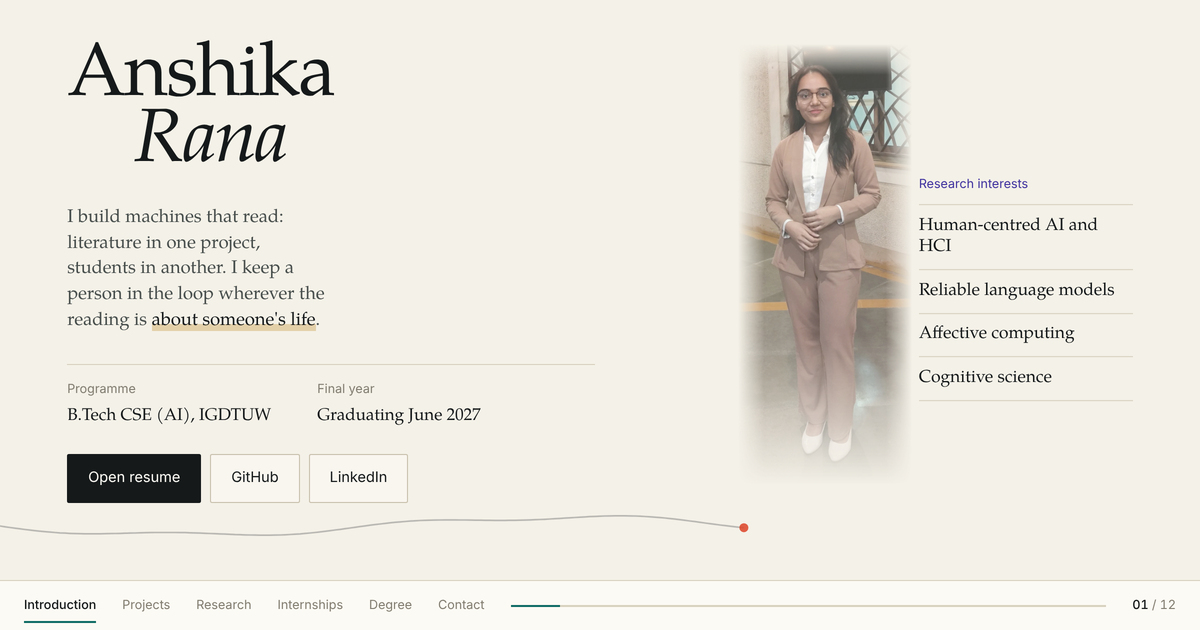
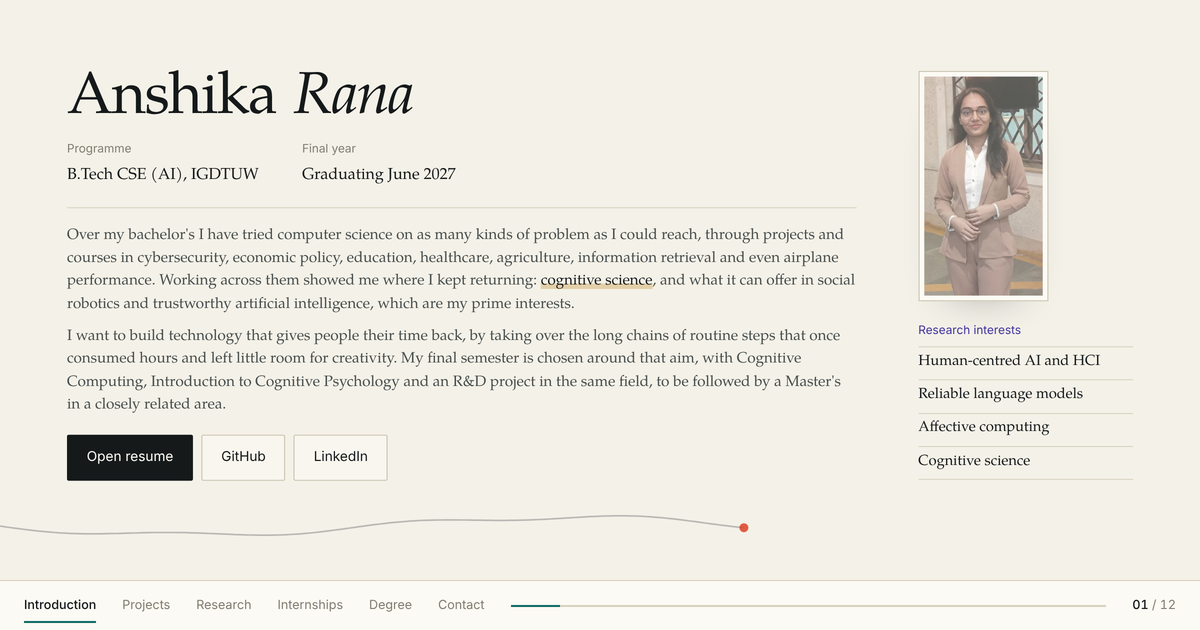
Changes to the Introduction section

diff --git a/index.html b/index.html
@@ -44,17 +44,16 @@
     -webkit-mask-image:linear-gradient(90deg,transparent,#000 22%,#000 78%,transparent);
     mask-image:linear-gradient(90deg,transparent,#000 22%,#000 78%,transparent)}
   .plate img{display:block;width:100%;height:auto}
-  /* the portrait sits in the gap beside the name and the programme block,
-     clear of the signal line that runs along the foot of the panel */
-  .portrait{position:absolute;right:24%;top:7%;
-    height:min(70%,640px);width:auto;max-width:30vw;opacity:.88;margin:0;pointer-events:none;
-    -webkit-mask-image:linear-gradient(180deg,transparent 0,#000 7%,#000 66%,transparent 100%);
-    mask-image:linear-gradient(180deg,transparent 0,#000 7%,#000 66%,transparent 100%)}
-  /* the figure keeps its edges; the wall behind it dissolves into the paper */
-  .portrait img{display:block;height:100%;width:auto;
-    -webkit-mask-image:linear-gradient(90deg,transparent 0,#000 15%,#000 85%,transparent 100%);
-    mask-image:linear-gradient(90deg,transparent 0,#000 15%,#000 85%,transparent 100%)}
-  html.stacked .portrait{display:none}
+  /* introduction: the story takes the width, the portrait and interests sit in a side column */
+  .openwrap{display:grid;grid-template-columns:minmax(0,1fr) auto;gap:clamp(44px,5.5vw,104px);
+    align-items:center;width:100%;max-width:1640px;margin:0 auto}
+  .side{width:clamp(226px,19vw,300px)}
+  .portrait{margin:0;display:inline-block;padding:5px;background:var(--card);border:1px solid #C9C1AD;
+    box-shadow:0 22px 44px -34px rgba(21,25,26,.45);line-height:0}
+  .portrait img{display:block;height:clamp(200px,37vh,400px);width:auto;max-width:100%;opacity:.8}
+  html.stacked .openwrap{grid-template-columns:1fr;gap:34px}
+  html.stacked .side{width:auto}
+  html.stacked .portrait img{height:300px}
   .panel{--padx:clamp(56px,5.6vw,116px);position:relative;z-index:1;flex:0 0 auto;height:100%;
     padding:84px var(--padx) 150px;display:flex;flex-direction:column;justify-content:center}
 
@@ -82,10 +81,20 @@
   h1{font-family:var(--display);font-weight:400;font-size:clamp(62px,12vh,104px);line-height:.86;
     letter-spacing:-.025em;margin:0 0 4px}
   h1 em{font-style:italic;display:block;margin-left:.88em}
+  /* the introduction sets the name on one line to leave room for the story */
+  .p-open h1{font-size:clamp(54px,10vh,96px);line-height:1.02;margin:0}
+  .p-open h1 em{display:inline;margin-left:.06em}
+  .p-open .meta{border-top:0;padding-top:0;margin:clamp(8px,1.6vh,16px) 0 0;max-width:none}
+  .story{margin:clamp(16px,3.2vh,34px) 0 0;padding-top:clamp(14px,2.8vh,28px);border-top:1px solid var(--line)}
+  .story p{font-family:var(--display);font-size:clamp(16px,2.4vh,20.5px);line-height:1.52;
+    color:var(--ink-2);margin:0 0 clamp(8px,1.6vh,14px)}
+  .p-open .links{margin-top:clamp(16px,3vh,30px)}
+  .story b{font-weight:400;color:var(--ink);background:linear-gradient(transparent 62%,rgba(var(--ochre-rgb),.3) 62%)}
+    html.stacked .story p{font-size:17px}
   .claim{font-family:var(--display);font-size:clamp(18px,2.9vh,25px);line-height:1.42;max-width:29ch;
     margin:clamp(18px,4vh,36px) 0 0;color:var(--ink-2)}
   .claim b{font-weight:400;color:var(--ink);background:linear-gradient(transparent 62%,rgba(var(--ochre-rgb),.3) 62%)}
-  .meta{display:flex;gap:46px;max-width:min(600px,44vw);margin:clamp(20px,4.4vh,40px) 0 clamp(18px,3.7vh,34px);
+  .meta{display:flex;gap:46px;max-width:min(660px,44vw);margin:clamp(14px,3vh,32px) 0 clamp(16px,3vh,30px);
     padding-top:clamp(12px,2.4vh,22px);border-top:1px solid var(--line)}
   .meta div span{display:block;font-size:12.5px;color:var(--ink-3);margin-bottom:3px}
   .meta div b{font-family:var(--display);font-weight:400;font-size:17px;color:var(--ink)}
@@ -97,15 +106,13 @@
   .btn:hover{background:var(--teal);border-color:var(--teal);color:#fff;transform:translateY(-1px)}
   a:focus-visible,button:focus-visible{outline:2px solid var(--teal);outline-offset:3px}
 
-  /* research interests: the column to the right of the portrait */
-  .interests{position:absolute;right:var(--padx);top:50%;transform:translateY(-62%);
-    width:clamp(214px,17.5vw,290px);margin:0}
-  .interests span{display:block;font-size:12.5px;color:var(--indigo);margin-bottom:10px}
+  /* research interests, under the portrait */
+  .interests{margin:clamp(12px,2.4vh,24px) 0 0}
+  .interests span{display:block;font-size:12.5px;color:var(--indigo);margin-bottom:clamp(6px,1.1vh,10px)}
   .interests ul{margin:0;padding:0;list-style:none}
-  .interests li{font-family:var(--display);font-size:clamp(17px,2.75vh,22px);line-height:1.22;
-    color:var(--ink);padding:clamp(9px,1.7vh,14px) 0;border-top:1px solid var(--line)}
+  .interests li{font-family:var(--display);font-size:clamp(15.5px,2.4vh,20px);line-height:1.2;
+    color:var(--ink);padding:clamp(6px,1.25vh,12px) 0;border-top:1px solid var(--line)}
   .interests li:last-child{border-bottom:1px solid var(--line)}
-  html.stacked .interests{position:static;transform:none;width:auto;margin:30px 0 0}
   .hint{position:absolute;left:70px;bottom:30px;font-size:13px;color:var(--ink-3);
     display:flex;align-items:center;gap:11px}
   .hint i{display:block;width:54px;height:1px;background:var(--teal);position:relative;font-style:normal}
@@ -325,6 +332,7 @@
     line-height:1.55;color:var(--ink-2);max-width:70ch;border-top:1px solid var(--line)}
   .u i,.l i{font-style:italic;font-family:var(--display);font-size:14px;color:var(--ink-3);padding-top:2px}
   .l i{color:var(--ochre)}
+  .pjt{font-family:var(--display);font-weight:400;font-size:25px;line-height:1.15;margin:0 0 12px}
   .plainnote{font-size:14.5px;line-height:1.62;color:var(--ink-2);margin:18px 0 0;
     padding:13px 16px;background:rgba(14,107,99,.05);border-left:2px solid var(--teal)}
   ul.team{margin:0;padding:0;list-style:none;display:flex;flex-wrap:wrap;gap:8px 26px}
@@ -405,26 +413,35 @@
   </div>
 
   <section class="panel p-open" id="s0">
-    <figure class="portrait"><img src="assets/portrait.webp" alt=""></figure>
-    <h1>Anshika<em>Rana</em></h1>
-    <p class="claim">I build machines that read: literature in one project, students in another. I keep a person in the loop wherever the reading is <b>about someone's life</b>.</p>
-    <div class="meta">
-      <div><span>Programme</span><b>B.Tech CSE (AI), IGDTUW</b></div>
-      <div><span>Final year</span><b>Graduating June 2027</b></div>
-    </div>
-    <div class="links">
-      <a class="btn" href="resume.pdf" target="_blank" rel="noopener">Open resume</a>
-      <a class="btn ghost" href="https://github.com/AnshikaRana" target="_blank" rel="noopener">GitHub</a>
-      <a class="btn ghost" href="https://www.linkedin.com/in/anshika-rana-02a4b6289/" target="_blank" rel="noopener">LinkedIn</a>
-    </div>
-    <div class="interests">
-      <span>Research interests</span>
-      <ul>
-        <li>Human-centred AI and HCI</li>
-        <li>Reliable language models</li>
-        <li>Affective computing</li>
-        <li>Cognitive science</li>
-      </ul>
+    <div class="openwrap">
+      <div class="opentext">
+        <h1>Anshika <em>Rana</em></h1>
+        <div class="meta">
+          <div><span>Programme</span><b>B.Tech CSE (AI), IGDTUW</b></div>
+          <div><span>Final year</span><b>Graduating June 2027</b></div>
+        </div>
+        <div class="story">
+          <p>Over my bachelor's I have tried computer science on as many kinds of problem as I could reach, through projects and courses in cybersecurity, economic policy, education, healthcare, agriculture, information retrieval and even airplane performance. Working across them showed me where I kept returning: <b>cognitive science</b>, and what it can offer in social robotics and trustworthy artificial intelligence, which are my prime interests.</p>
+          <p>I want to build technology that gives people their time back, by taking over the long chains of routine steps that once consumed hours and left little room for creativity. My final semester is chosen around that aim, with Cognitive Computing, Introduction to Cognitive Psychology and an R&amp;D project in the same field, to be followed by a Master's in a closely related area.</p>
+        </div>
+        <div class="links">
+          <a class="btn" href="resume.pdf" target="_blank" rel="noopener">Open resume</a>
+          <a class="btn ghost" href="https://github.com/AnshikaRana" target="_blank" rel="noopener">GitHub</a>
+          <a class="btn ghost" href="https://www.linkedin.com/in/anshika-rana-02a4b6289/" target="_blank" rel="noopener">LinkedIn</a>
+        </div>
+      </div>
+      <aside class="side">
+        <figure class="portrait"><img src="assets/portrait.webp" alt="Anshika Rana"></figure>
+        <div class="interests">
+          <span>Research interests</span>
+          <ul>
+            <li>Human-centred AI and HCI</li>
+            <li>Reliable language models</li>
+            <li>Affective computing</li>
+            <li>Cognitive science</li>
+          </ul>
+        </div>
+      </aside>
     </div>
   </section>
 

diff --git a/data.js b/data.js
@@ -181,7 +181,13 @@ const INTERNSHIPS = {
       "The work was built on OpenCV: real-time object detection, face anonymisation, and image segmentation.",
       "Face anonymisation is the piece worth keeping. Detecting a face and then deliberately destroying the information that identifies it is the same decision as the rest of my work, taken in the other direction: a system that can recognise someone is a system that can be told not to."
     ],
-    figs:[["6 wks","2 June to 11 July 2025"],["3","areas of work"],["OpenCV","the whole toolkit"]],
+    figs:[["6 wks","2 June to 11 July 2025"],["3","areas of work"],["OpenCV","and Keras for the project"]],
+    project:{title:"Wardrobe Assistant", body:[
+      "A notebook that looks at photographs of your clothes, works out what each item is, and suggests what the wardrobe is missing.",
+      "The classifier is a three-block convolutional network trained from scratch on the Re-PolyVore dataset: 4,950 images across 11 categories, from pants and tops to eyewear and bags, resized to 128 pixels and augmented with rotation, shifts, zoom and flips. After 30 epochs it reaches 74.6 percent accuracy on a held-out test set of 743 images.",
+      "Around it sit three simpler steps: a dominant-colour reading for each photograph, a rule table for style and pairing, and a list of suggested additions for the categories the wardrobe lacks.",
+      "What I learned: the classifier was the dependable part. The colour step averages every pixel, background included, so my own photographs all came out grey, and the pairing rules were written for labels the dataset does not use. Both taught me to test a pipeline on real inputs and not to stop at its accuracy figure."
+    ]},
     certs:[["assets/intern-2025.webp","Certificate of completion, Computer Vision and Deep Learning, six week summer internship, Anveshan Foundation, IGDTUW"]],
     links:[]
   },
@@ -195,6 +201,12 @@ const INTERNSHIPS = {
       "Everything in the Projects chapter rests on this one, which is the honest reason it is here."
     ],
     figs:[["8 wks","3 June to 29 July 2024"],["1st","of three summers"],["Python","and the classical stack"]],
+    project:{title:"Privacy-Enhanced Movie Recommendation System", body:[
+      "A content-based recommender over 4,803 films. You type a title, and it returns the films most like it.",
+      "Each film is described by its genres, keywords, tagline, cast and director. Those are turned into TF-IDF vectors and every film is compared with every other by cosine similarity. A misspelled title is matched to the closest real one before the search runs.",
+      "The privacy part is a first step. I set up a differentially private optimiser from TensorFlow Privacy, with gradient clipping and Gaussian noise, as the route to a recommender that learns from people's histories without memorising any one of them. This version does not yet train with it.",
+      "What I learned: how text features become vectors, how similarity search behaves across a few thousand items, and what differential privacy asks of a training loop before accuracy is even discussed."
+    ]},
     certs:[["assets/intern-2024.webp","Certificate of completion, Python and Machine Learning, eight week summer internship, Centre of Excellence in Artificial Intelligence, IGDTUW"]],
     links:[]
   }
@@ -378,7 +390,7 @@ const COURSES = {
     ["Unit III","Deep Neural Network: Deep Learning, Deep Neural Networks: Difficulty of training deep neural networks, Activation Function, Hyper parameters vs Parameters, Greedy layer wise training, Recurrent Neural Networks: Backpropagation through time, Long Short Term Memory, Gated Recurrent Units, Bidirectional LSTMs, Bidirectional RNNs, Applications in Natural Language Processing."],
     ["Unit IV","Applications: Convolutional Neural Networks. Filters, Pooling. Image Classification. Well known case studies: LeNet, AlexNet, VGG-16, ResNet, InceptionNet. Transfer Learning. Weight Initialization, Batch Normalization, Regularization. Applications in Vision, Speech, and Audio-Video."]],
     [], ""),
-  "HMC 301": C("HMC-301","Professional Ethics",3,"B+",[
+  "HMC 301": C("HMC-301","Professional Ethics and Human Values",3,"B+",[
     ["Unit I","Human Values Morals, Values and Ethics, Integrity, Work Ethic, Respect for Others, Living Peacefully, Caring, Sharing, Honesty, Valuing Time, Co-operation, Commitment, Empathy, Self-Confidence, Character, Spirituality. Indian values (on the conceptual framework of Vedas): Purusharth, Niskama karma, Religion and Human Values, Towards a World Religion, Ethical Living and Harmony in Life."],
     ["Unit II","Profession and Professionalism, Ethical Theories: Kohlberg’s Theory, Gilligan’s Theory, Feminist Consequentialism, Moral Dilemmas, Types of Enquiries, Uses of Ethical Theories, Engineering Profession, Engineering Professionals- Training, Skill Set, Life Skills, Engineering Ethics: Making Senses and Issues, Ethical Obligations of Engineers, Ethical Codes for Engineers."],
     ["Unit III","Engineering as a Social Experimentation, Safety Responsibility and Rights: Engineering as experimentation, Engineers as responsible Experimenters, Concept of Safety and Risk, Engineer’s Responsibility for Safety, Risk – Benefit Analysis, Case Studies: The challenger case study, The Three Mile Island, Fukushima Nuclear Disaster, Bhopal Gas Tragedy. Disaster Management, Professional Rights, Employee Rights, Intellectual Property Rights (IPRs), Human Rights and Human Responsibilities. Major Ethical Issues."],

diff --git a/app.js b/app.js
@@ -4,7 +4,7 @@ const SEMS=[
  ["Semester 2","6.45","Completed",[["IT Workshop","A","BAI 108",1],["Database Management","B","BAI 106",0],["Environmental Science","B","BAS 106",0],["Intro to Data Science","","BAI 104",0],["OOP using Java","","BAI 102",0],["Probability & Statistics","","BAS 108",0]]],
  ["Semester 3","6.35","Completed",[["Artificial Intelligence","B+","BAI 201",1],["Internship","B+","BAI 253",0],["Discrete Structures","B","BCS 203",0],["Data Structures","","BCS 201",0],["Software Engineering","","BIT 203",0],["Numerical Methods","","BAS 203",0],["Introduction to Airplane Performance (NPTEL)","","GEC 201",0]]],
  ["Semester 4","7.27","Completed",[["Optimization Techniques","A","BAI 204",1],["Operating Systems","B+","BIT 202",0],["Disaster Management","B+","HMC 202",0],["Computer Networks","B","BAI 202",0],["Algorithms","","BCS 204",0],["Operations Management","","BMA 210",0]]],
- ["Semester 5","8.27","Completed",[["Machine Learning","A","BAI 301",1],["Theory of Computation","A","BCS 303",0],["Startup Development","A","GEC 301",0],["Cyber Security","B+","BAI 303",0],["Deep Learning I","B","BAI 305",0],["Professional Ethics","B+","HMC 301",0],["Internship","B+","BAI 353",0]]],
+ ["Semester 5","8.27","Completed",[["Machine Learning","A","BAI 301",1],["Theory of Computation","A","BCS 303",0],["Startup Development","A","GEC 301",0],["Cyber Security","B+","BAI 303",0],["Deep Learning I","B","BAI 305",0],["Professional Ethics and Human Values","B+","HMC 301",0],["Internship","B+","BAI 353",0]]],
  ["Semester 6","7.91","Completed",[["Cloud Computing","A","BAI 308",1],["Marketing Management","A","HMC 304",0],["Natural Language Processing","B+","BAI 302",0],["Deep Learning II","B+","BAI 304",0],["Digital Image Processing","B","BAI 306",0],["Data Warehousing and Business Intelligence","B","BAI 322",0]]],
  ["Semester 7","·","In progress",[["Computer Vision","","BAI 403",1],["Conversational AI","","BAI 409",1],["Multimodal Data Analytics","","BAI 417",0],["Recent Trends in AI","","BAI 415",0],["Big Data Analytics","","BIT 407",0],["Minor Project","","BAI 451",0],["Internship","","BAI 453",0]]],
  ["Semester 8","·","Ahead",[["Cognitive Computing","","BAI 414",1],["Introduction to Cognitive Psychology by IIT Guwahati (NPTEL)","","GEC 402",1],["Social Media Analytics","","BAI 404",0],["R&D Project","","BAI 452",0],["Creativity, Innovation and Entrepreneurship","","HMC 402",0]]]
@@ -114,6 +114,10 @@ function openItem(kind,key){
     ? '<h5>From the demo</h5><div class="certs">'+
       o.shots.map(([src,cap])=>`<figure class="certfig"><img src="${src}" alt="${esc(cap)}" loading="lazy"><figcaption>${esc(cap)}</figcaption></figure>`).join('')+
       '</div>' : '';
+  // the project built during an internship
+  const proj = o.project
+    ? `<h5>Project from this internship</h5><h4 class="pjt">${esc(o.project.title)}</h4>`+
+      o.project.body.map(p=>`<p class="para">${esc(p)}</p>`).join('') : '';
   const cert = o.certs&&o.certs.length
     ? '<h5>'+(o.certs.length>1?'Certificate and award':'Certificate')+'</h5><div class="certs">'+
       o.certs.map(([src,cap])=>`<figure class="certfig"><img src="${src}" alt="${esc(cap)}" loading="lazy"><figcaption>${esc(cap)}</figcaption></figure>`).join('')+
@@ -122,7 +126,7 @@ function openItem(kind,key){
     `<p class="tag">${esc(o.kind)}</p><h3>${esc(o.title)}</h3><p class="sub">${esc(o.meta)}</p>`+
     `<p class="brief">${esc(o.lead)}</p>`+
     (o.body||[]).map(p=>`<p class="para">${esc(p)}</p>`).join('')+
-    stats(o.figs)+team+mine+shots+deck+cert+linkrow(o.links)+note(o.check));
+    stats(o.figs)+proj+team+mine+shots+deck+cert+linkrow(o.links)+note(o.check));
 }
 function openCourse(code,name,grade){
   const c=COURSES[code];
@@ -286,10 +290,10 @@ function revealTrace(){
 // above it, widening first so it still fills the column after scaling.
 const SIG_RISE=70;    // how far the research noise reaches above the base, plus clearance
 function fitResearch(){
-  ['s1','s1b','s1c','s1d','s2','s2b','sI'].forEach(id=>{
+  ['s0','s1','s1b','s1c','s1d','s2','s2b','sI'].forEach(id=>{
     const host=document.getElementById(id);
     if(!host)return;
-    const stack=host.querySelector('.rstack,.figwrap');
+    const stack=host.querySelector('.rstack,.figwrap,.openwrap');
     if(!stack)return;
     const reset=()=>{stack.style.width=''; stack.style.transform='none'; stack.style.marginBottom='';};
     reset();
